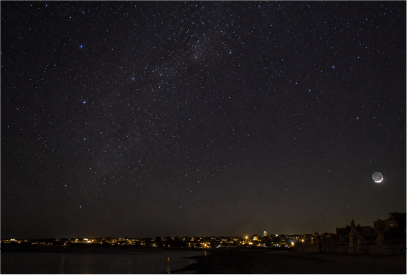
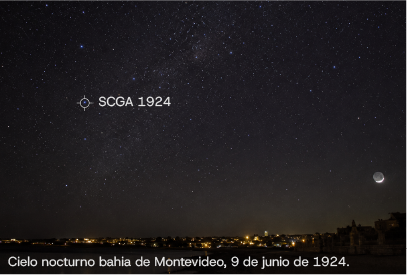
ajuste info estrellas

diff --git a/boveda.html b/boveda.html
@@ -315,7 +315,7 @@ button:active {
   filter:
     drop-shadow(0 0 6px rgba(88,167,232,0.95))
     drop-shadow(0 0 14px rgba(88,167,232,0.72))
-    drop-shadow(0 0 26px rgba(88,167,232,0.36));
+    drop-shadow(0 0 32px rgba(88,167,232,0.55));
   transition: opacity 0.15s ease;
 }
 
@@ -949,27 +949,37 @@ button:active {
   height: 100%;
   overflow-y: auto;
   overflow-x: hidden;
-  background: linear-gradient(180deg, #000 0 72%, #12384d 100%);
+  background:
+    linear-gradient(
+      180deg,
+      #000 0%,
+      #000 42%,
+      #021016 64%,
+      #12384d 100%
+    );
   -webkit-overflow-scrolling: touch;
   scrollbar-width: none;
 }
-
 .mission-detail-scroll::-webkit-scrollbar {
   display: none;
 }
 
 .mission-detail .reveal {
   opacity: 0;
-  transform: translateY(22px);
-  transition: opacity 620ms ease, transform 620ms ease;
-  will-change: opacity, transform;
+  transform: translateY(30px) scale(0.985);
+  filter: blur(8px);
+  transition:
+    opacity 1100ms cubic-bezier(0.22, 0.61, 0.36, 1),
+    transform 1100ms cubic-bezier(0.22, 0.61, 0.36, 1),
+    filter 1100ms cubic-bezier(0.22, 0.61, 0.36, 1);
+  will-change: opacity, transform, filter;
 }
 
 .mission-detail .reveal.is-visible {
   opacity: 1;
-  transform: translateY(0);
+  transform: translateY(0) scale(1);
+  filter: blur(0);
 }
-
 .mission-hero {
   position: relative;
   width: 100%;
@@ -1107,7 +1117,7 @@ button:active {
 .mission-block {
   position: relative;
   padding: 20px 22px;
-  background: #000;
+  background: transparent;
 }
 
 .mission-block.compact {
@@ -1276,7 +1286,7 @@ button:active {
 
 .mission-quote {
   padding: 26px 22px 30px;
-  background: #12384d;
+  background: transparent;
 }
 
 .mission-quote p {
@@ -1293,9 +1303,8 @@ button:active {
 }
 
 .mission-blue {
-  background: linear-gradient(180deg, #001014 0%, #12384d 100%);
+  background: transparent;
 }
-
 .mission-spacer-lg {
   height: 170px;
   background: #000;
@@ -1303,10 +1312,9 @@ button:active {
 
 .mission-end {
   padding: 32px 22px 52px;
-  background: #12384d;
+  background: transparent;
   text-align: center;
 }
-
 .mission-back-btn {
   width: 184px;
   height: 38px;
@@ -3876,10 +3884,10 @@ function setupMissionReveal() {
     rootMargin: '0px 0px -8% 0px'
   });
 
-  scroll.querySelectorAll('.reveal').forEach((el, index) => {
-    el.style.transitionDelay = `${Math.min(index * 35, 180)}ms`;
-    missionRevealObserver.observe(el);
-  });
+ scroll.querySelectorAll('.reveal').forEach((el, index) => {
+  el.style.transitionDelay = `${Math.min(index * 90, 520)}ms`;
+  missionRevealObserver.observe(el);
+});
 }
 const missionModalClose = document.getElementById('mission-modal-close');
 
